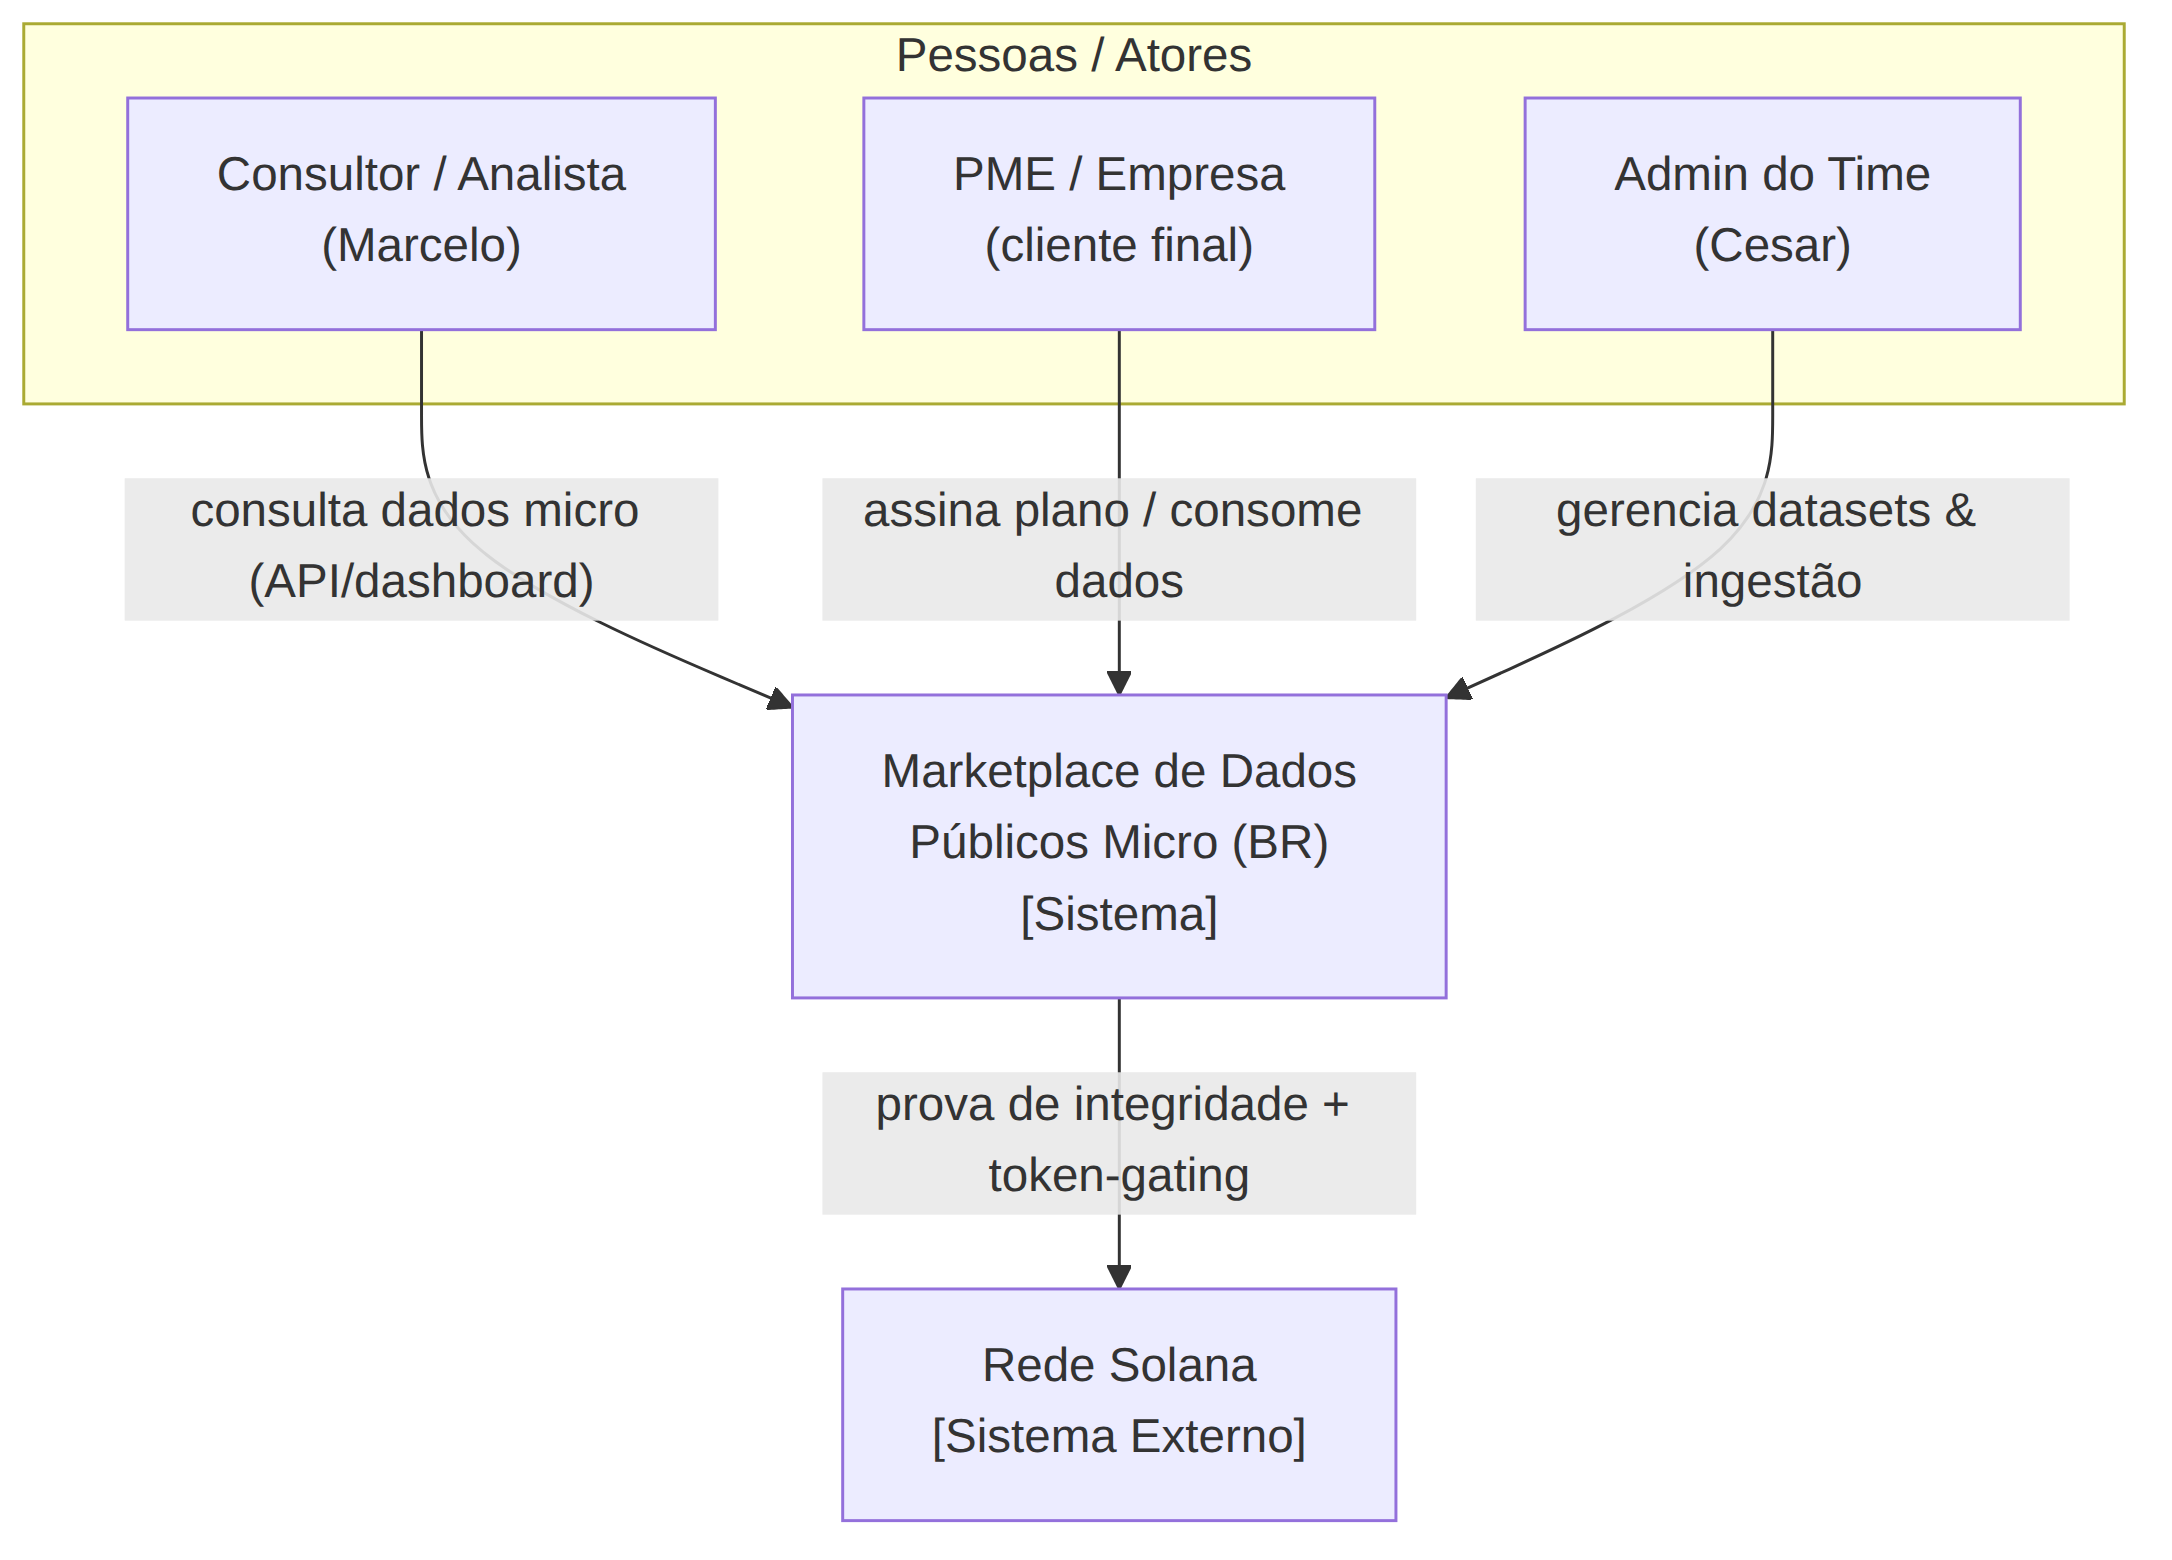
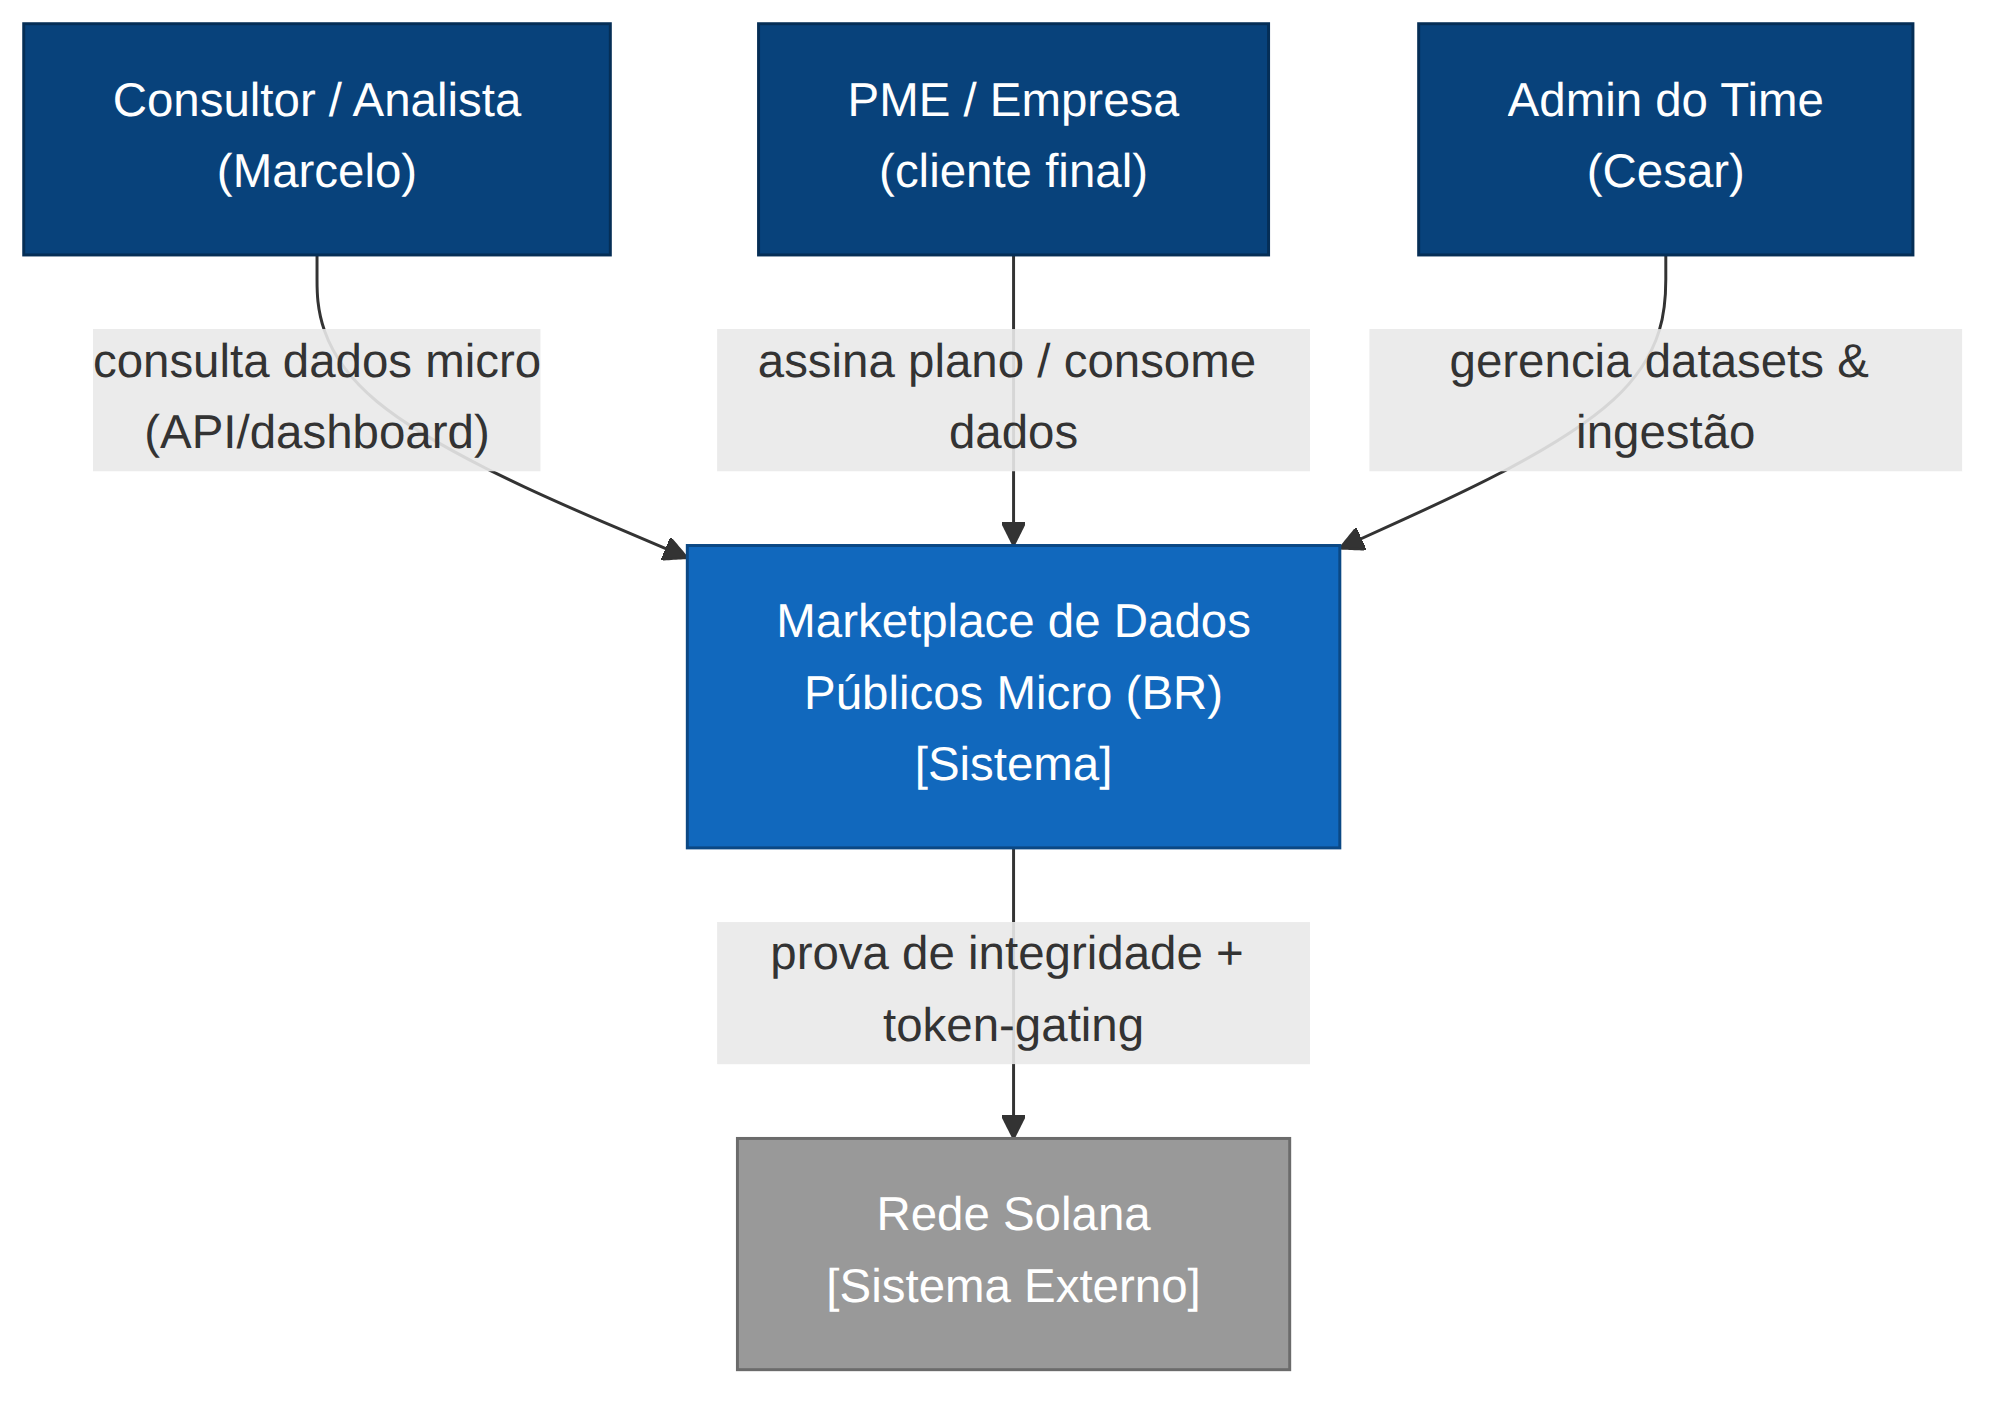
docs(architecture): Artefato @architect (programa Anchor) + diagramas C4 estilizados e PNGs regenerados

diff --git a/docs/architecture/TECH-STACK-PROGRAMA-SOLANA.md b/docs/architecture/TECH-STACK-PROGRAMA-SOLANA.md
@@ -1,0 +1,150 @@
+# Arquitetura — PoC de Armazenamento NATIVO Solana (Epic 1)
+
+**Projeto:** Hackathon Colosseum 2026
+**Autor:** @architect (Aria)
+**Data:** 22 Set 2026
+**Constraint:** CON-000 — somente tecnologias nativas Solana (sem cross-chain).
+
+---
+
+## 1. Tech Stack (Decisões + Rejeições)
+
+| Camada | Escolha | Rationale | Rejeitado |
+|--------|---------|-----------|-----------|
+| Linguagem de script | **TypeScript** | Consistente com o Passo 2 (CDK); SDK maduro | Python (web3.py menos maduro) |
+| SDK blockchain | **@solana/web3.js** | Oficial, estável | — |
+| Framework de programa | **Anchor 0.30** | Abstrai contas/IDL; mais rápido que Rust puro | Rust nativo (verboso p/ PoC) |
+| Compressão | **@solana/spl-account-compression** + Metaplex Bubblegum | Padrão para Merkle trees | — |
+| Preço SOL | CoinGecko API (gratuita) | Simples, sem key | Binance (requer auth) |
+| Baseline AWS | AWS SDK v3 (S3) | Reuso de credenciais CDK | — |
+
+**Rejeições explícitas:**
+- ~~shdwDrive~~ — abandonado.
+- ~~Irys~~ — virou Layer-1 própria (não Solana).
+- ~~Walrus~~ — Sui (cross-chain).
+- ~~Arweave/Filecoin/IPFS~~ — não nativos Solana (CON-000).
+
+---
+
+## 2. Programa Próprio (Anchor/Rust) — O Componente Central
+
+O programa é o coração do PoC: ele faz **provenance de datasets** (armazena hash + metadados on-chain e expõe verificação de integridade). É o que o produto final usa para provar que um dataset é autêntico.
+
+### 2.1 Contas (Account Structure)
+
+```rust
+#[account]
+pub struct DatasetRecord {
+    pub owner: Pubkey,          // quem registrou o dataset
+    pub dataset_id: String,     // slug (ex: "ipca", "anp-combustivel")
+    pub content_hash: [u8; 32], // SHA-256 do arquivo Parquet
+    pub source: String,         // fonte (IBGE, ANP, WorldBank)
+    pub license: String,        // licença de redistribuição
+    pub schema_version: u32,    // versão do schema do dataset
+    pub timestamp: i64,         // quando foi registrado
+    pub bump: u8,               // PDA bump seed
+}
+```
+
+### 2.2 Instruções (Instructions)
+
+| Instrução | Argumentos | Custo estimado | Descrição |
+|-----------|-----------|----------------|-----------|
+| `initialize` | — | ~1 SOL deploy | Cria a conta de configuração do programa |
+| `store_dataset` | dataset_id, content_hash, source, license, schema_version | ~0.000005 SOL tx + rent | Registra/atualiza hash de um dataset (PDA por dataset_id) |
+| `verify_dataset` | dataset_id, content_hash | ~0.000005 SOL tx (read) | Confirma se o hash bate com o on-chain |
+| `update_dataset` | dataset_id, new_content_hash | ~0.000005 SOL tx | Atualiza o hash (novo snapshot) |
+
+### 2.3 PDA (Program Derived Address)
+
+- `DatasetRecord` PDA: `seeds = [b"dataset", dataset_id.as_bytes()]` → endereço determinístico por dataset.
+- Permite verificação sem consultar indexador externo.
+
+### 2.4 Fluxo de Provenance (end-to-end)
+
+```
+Lambda Ingest (AWS)
+  → gera Parquet em S3
+  → calcula SHA-256 do arquivo
+  → chama store_dataset(hash, metadados) no programa Solana (via wallet do time)
+  → PDA gravado on-chain
+
+Cliente (qualquer um)
+  → baixa dataset da API (S3)
+  → calcula SHA-256 local
+  → chama verify_dataset(id, hash) on-chain (read-only, grátis)
+  → se true → dado autêntico, não adulterado
+```
+
+---
+
+## 3. Estrutura de Pastas do PoC
+
+```
+colosseum-hackathon/
+├── poc/
+│   ├── package.json           # deps TS + scripts
+│   ├── .env.example           # PRIVATE_KEY, RPC, AWS creds
+│   ├── src/
+│   │   ├── harness/
+│   │   │   ├── metrics.ts     # recordMetric() (FR-014)
+│   │   │   └── price.ts       # SOL→USD (CoinGecko)
+│   │   ├── bench/
+│   │   │   ├── rent.ts        # STORY 1.2
+│   │   │   ├── compression.ts  # STORY 1.3
+│   │   │   ├── program.ts     # STORY 1.4 (deploy + store/verify)
+│   │   │   └── s3.ts          # STORY 1.5
+│   │   └── cli.ts             # npm run bench entrypoint
+│   ├── programs/
+│   │   └── dataset-provenance/
+│   │       ├── Cargo.toml
+│   │       └── src/lib.rs     # programa Anchor
+│   ├── Anchor.toml
+│   └── tests/
+│       └── provenance.test.ts # cobertura ≥ 70%
+├── bench-results.json         # saída versionada
+└── bench-results.csv
+```
+
+---
+
+## 4. Schema de Métricas (FR-014)
+
+```typescript
+interface Metric {
+  layer: "solana-rent" | "solana-compression" | "solana-program" | "aws-s3";
+  operation: "write" | "read" | "deploy" | "verify" | "close";
+  payload_bytes: number;
+  cost_sol: number;      // lamports→SOL (0 se n/a)
+  cost_usd: number;      // preço SOL timestampado
+  latency_ms: number;
+  throughput_mbps: number;
+  timestamp: string;     // ISO 8601
+}
+```
+
+---
+
+## 5. Decisões de Design Chave
+
+1. **Programa próprio > usar uma lib externa** — é o único componente nativo Solana que entrega *provenance verificável* (a lib de compression só faz hash em árvore, não expõe verify por dataset).
+2. **PDA determinístico por dataset_id** — permite lookup O(1) sem indexador.
+3. **Hash SHA-256 (32 bytes) on-chain** — custo mínimo de rent; o dado completo fica no S3, nunca on-chain.
+4. **Devnet primeiro** — todo o benchmark roda em devnet (custo zero real); mainnet só 1-2 ops de smoke test com teto 0.1 SOL.
+
+---
+
+## 6. Custo Estimado (pré-benchmark, será medido)
+
+| Operação | Custo estimado |
+|----------|----------------|
+| Deploy do programa | ~0.5–1 SOL (rent do program account, ~10KB) |
+| store_dataset | ~0.000005 SOL (tx) + ~0.001 SOL (rent PDA ~100 bytes) |
+| verify_dataset | ~0.000005 SOL (read-only, sem rent) |
+| Compression (1M leaves) | ~5.3 SOL (árvore) ≈ 0.000005 SOL/leaf |
+
+**Hipótese a validar:** custo de provenance on-chain é **desprezível** (< US$ 0.01/dataset) comparado ao custo de storage na AWS — reforçando a tese de placement.
+
+---
+
+**Próximo:** @po valida stories → @dev implementa Batch 1 (1.1 + 1.6).
